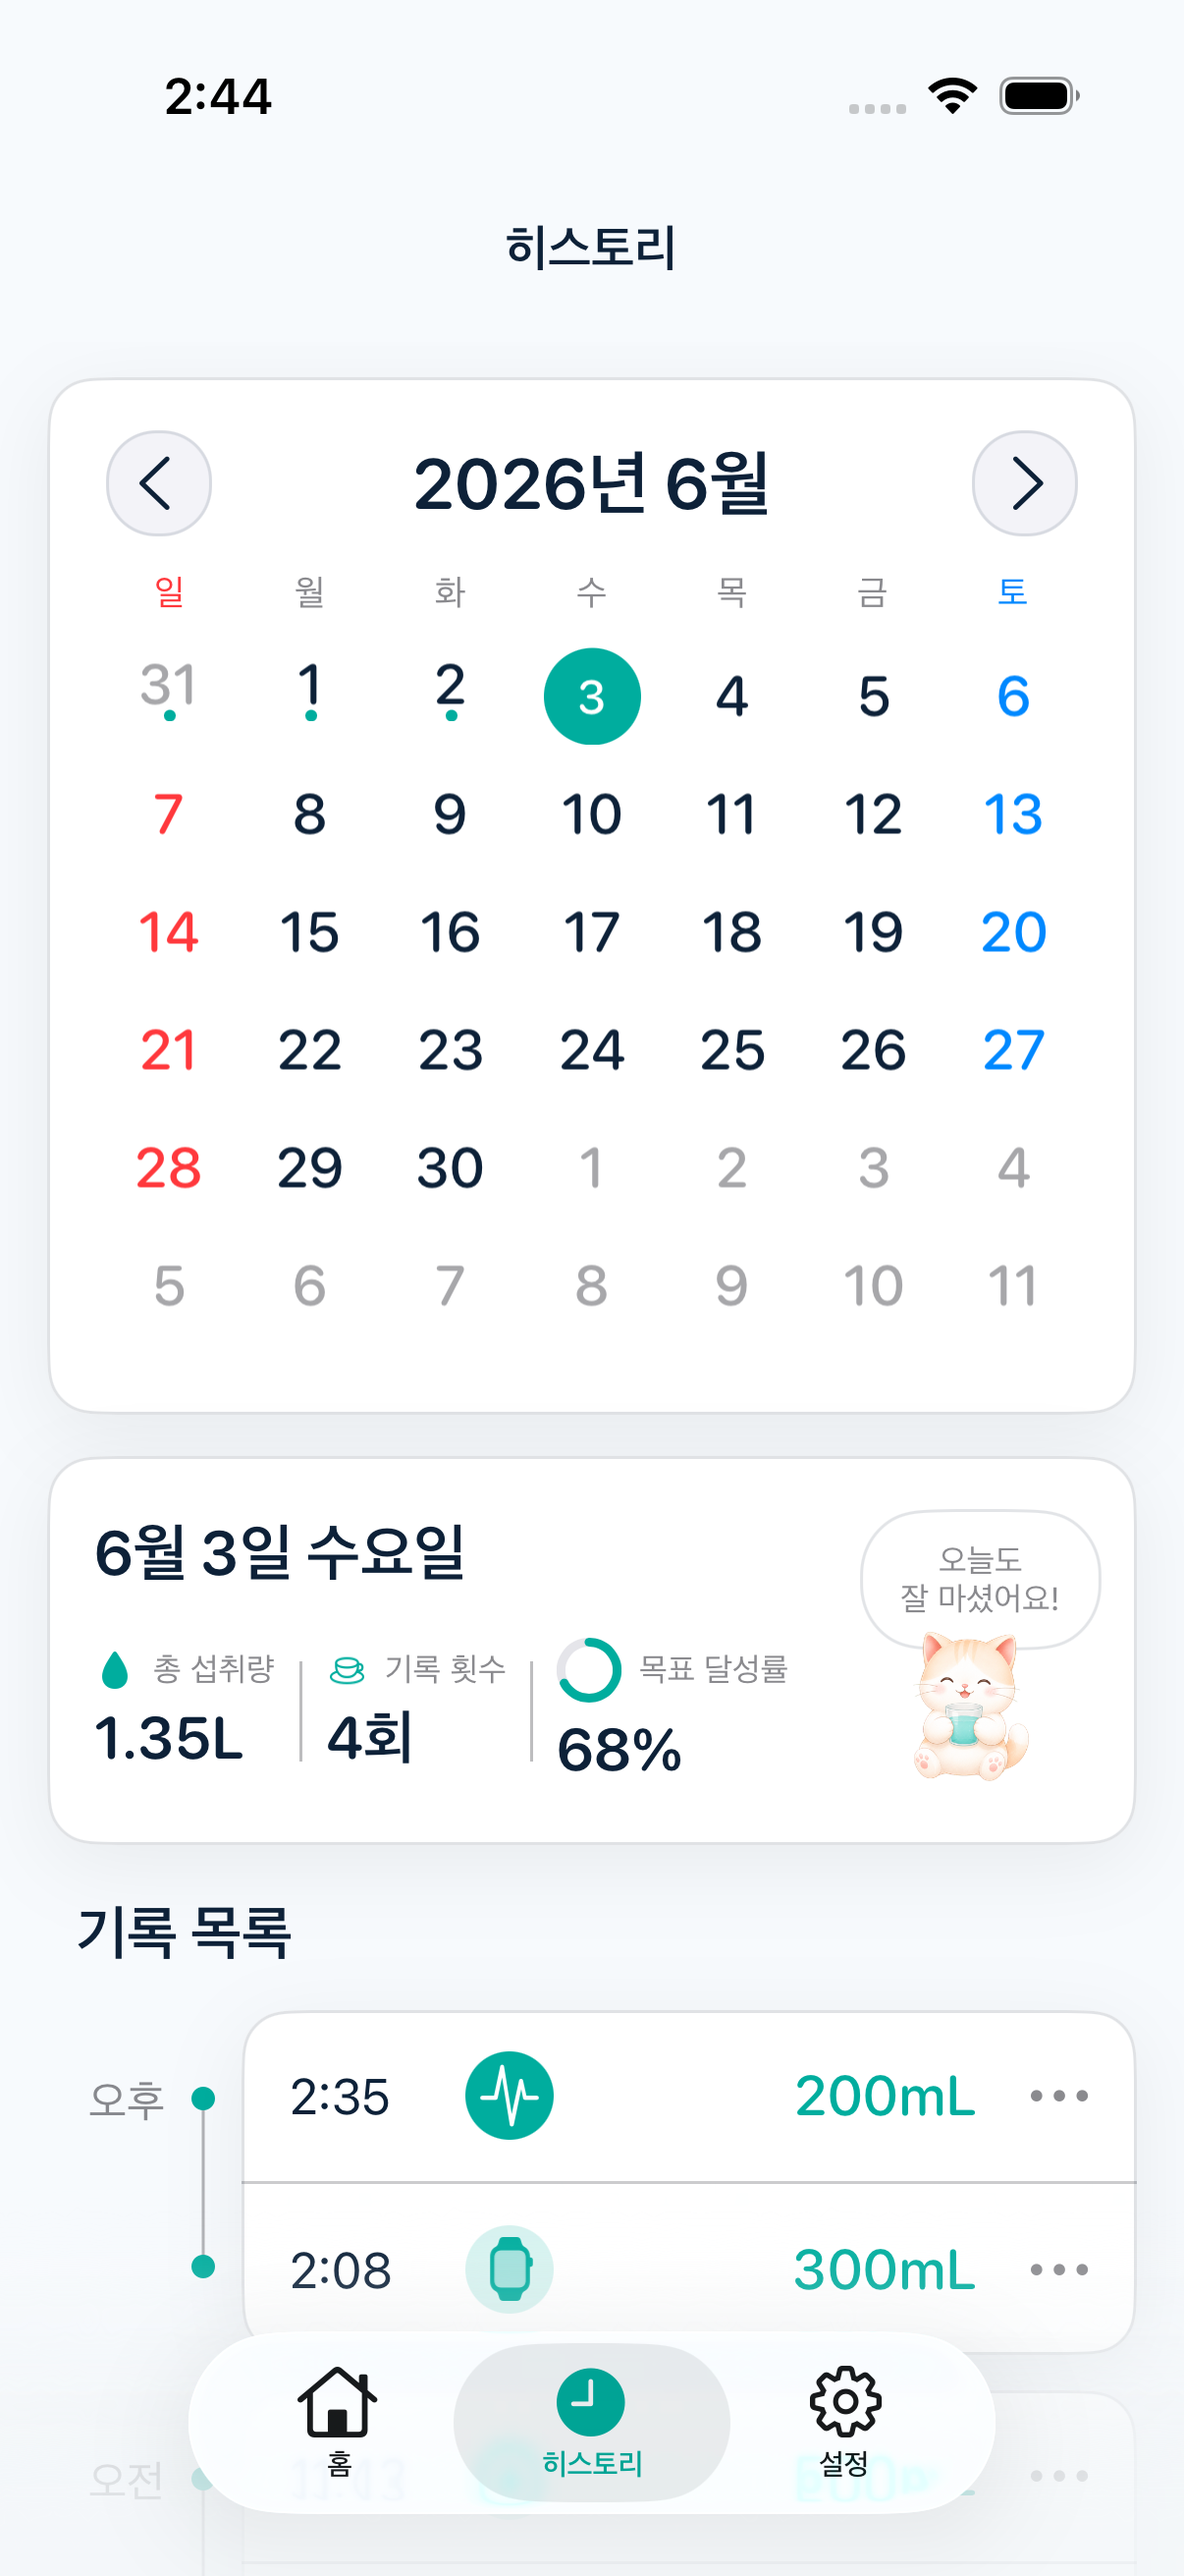
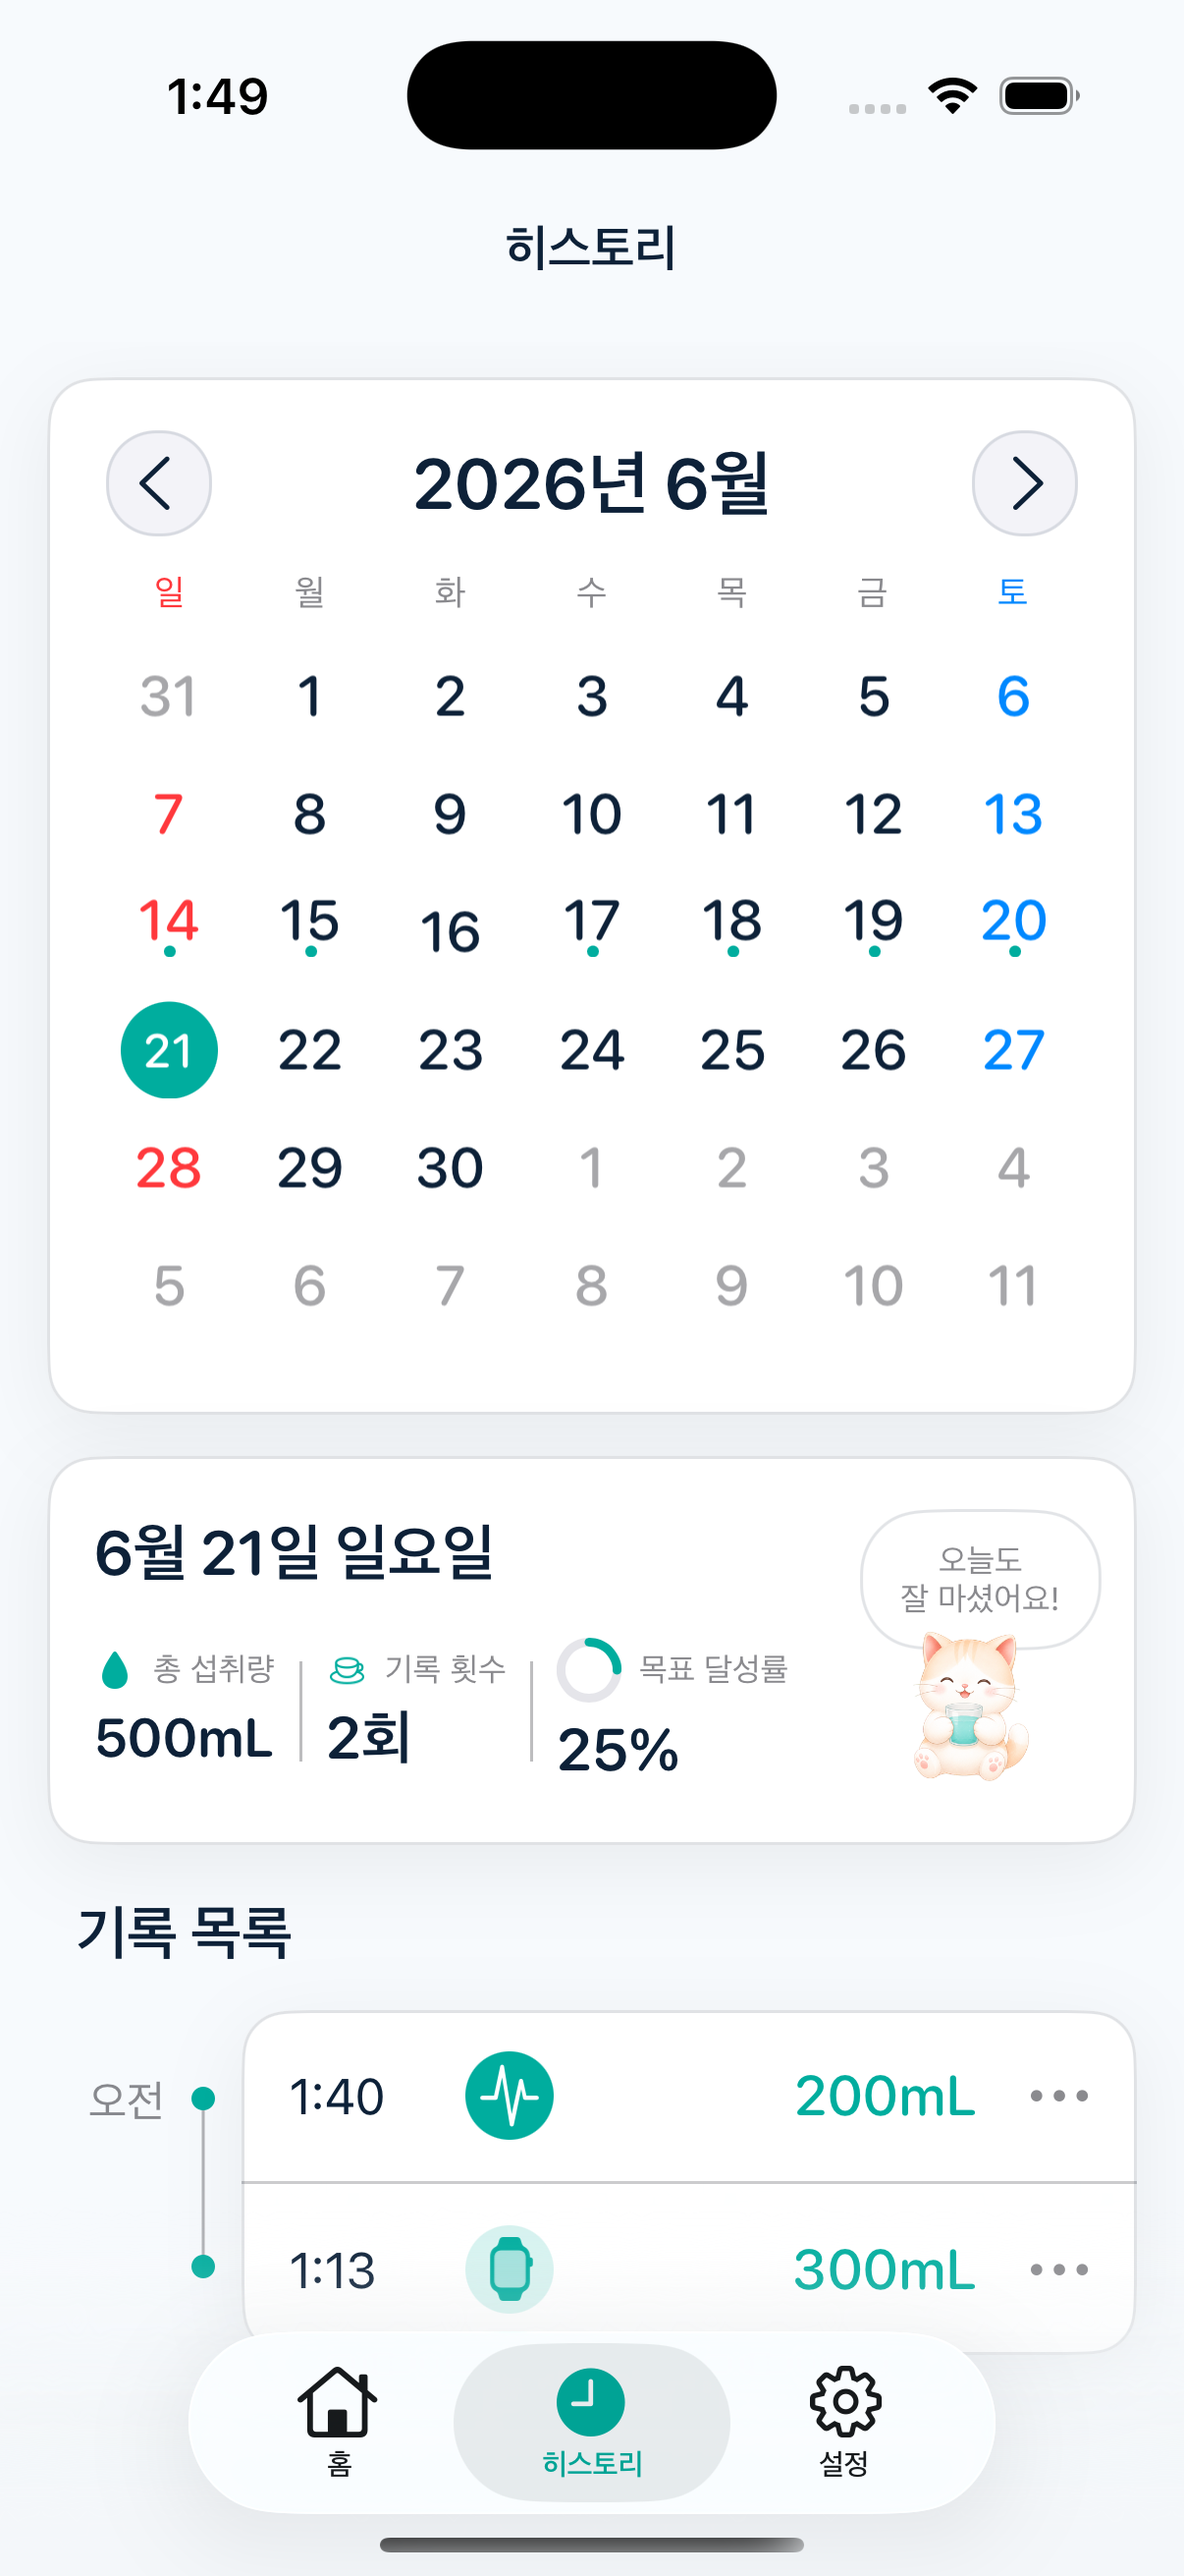
Update AquaTick landing screenshots

diff --git a/aquatick/ko/index.html b/aquatick/ko/index.html
@@ -40,7 +40,7 @@
         "name": "AquaTick | 고양이와 함께하는 수분 기록 앱",
         "description": "고양이와 함께 수분 습관을 시작하세요. 위젯, Live Activity, Dynamic Island, Apple Watch에서 바로 기록. 로그인 없이 목표·히스토리·연속 달성을 확인합니다.",
         "inLanguage": "ko-KR",
-        "dateModified": "2026-06-09",
+        "dateModified": "2026-06-21",
         "isPartOf": { "@id": "https://sparkish-xyz.github.io/aquatick/#website" },
         "about": { "@id": "https://sparkish-xyz.github.io/aquatick/#app" },
         "primaryImageOfPage": {
@@ -128,7 +128,7 @@
         <div class="hero-visual">
           <div class="iphone-frame">
             <img src="/aquatick/assets/screenshot-iphone-home.png" width="1206" height="2622" 
-                 alt="AquaTick iPhone 홈 — 고양이가 미소 지으며 1.35L를 달성한 화면, 수평 teal 진행 바와 남은 양 표시">
+                 alt="AquaTick iPhone 홈 — 고양이가 물을 기다리며 500mL를 기록한 화면, 수평 teal 진행 바와 남은 양 표시">
           </div>
           <div class="cat-sticker" data-active-text="고양이 진짜임 ㅋㅋ">진짜 고양이임</div>
         </div>
@@ -237,10 +237,10 @@
           <!-- Film 1: Home -->
           <div class="film-card">
             <img src="/aquatick/assets/screenshot-iphone-home.png" width="1206" height="2622" loading="lazy"
-                 alt="AquaTick iPhone 홈 화면 — 고양이와 함께 1.35L 달성, 수평 진행 바와 상세 상태">
+                 alt="AquaTick iPhone 홈 화면 — 고양이와 함께 500mL 기록, 수평 진행 바와 상세 상태">
             <div class="film-caption">
               <strong>순간 1</strong>
-              고양이가 미소 짓는 홈 카드. 1.35L 기록 후의 따뜻한 순간.
+              고양이가 물을 기다리는 홈 카드. 500mL 기록 후 남은 양을 보여주는 순간.
             </div>
           </div>
 

diff --git a/aquatick/ja/index.html b/aquatick/ja/index.html
@@ -40,7 +40,7 @@
         "name": "AquaTick | 猫と続ける水分記録アプリ",
         "description": "水分補給の猫と一緒に。ウィジェット、Live Activity、Dynamic Island、Apple Watchからワンタップで記録。アカウント不要。目標・履歴・連続達成を確認。",
         "inLanguage": "ja-JP",
-        "dateModified": "2026-06-09",
+        "dateModified": "2026-06-21",
         "isPartOf": { "@id": "https://sparkish-xyz.github.io/aquatick/#website" },
         "about": { "@id": "https://sparkish-xyz.github.io/aquatick/#app" },
         "primaryImageOfPage": {
@@ -128,7 +128,7 @@
         <div class="hero-visual">
           <div class="iphone-frame">
             <img src="/aquatick/assets/screenshot-iphone-home.png" width="1206" height="2622" 
-                 alt="AquaTick iPhoneホーム — 猫が笑顔で1.35L達成、水平ティール進行バーと残量表示">
+                 alt="AquaTick iPhoneホーム — 猫がカップを持って待ち、500mL記録、水平ティール進行バーと残量表示">
           </div>
           <div class="cat-sticker" data-active-text="本物の猫だよ 😂">本物の猫です</div>
         </div>
@@ -237,10 +237,10 @@
           <!-- Film 1: Home -->
           <div class="film-card">
             <img src="/aquatick/assets/screenshot-iphone-home.png" width="1206" height="2622" loading="lazy"
-                 alt="AquaTick iPhoneホーム — 猫と一緒に1.35L達成、水平プログレスバーと詳細ステータス">
+                 alt="AquaTick iPhoneホーム — 猫と一緒に500mL記録、水平プログレスバーと詳細ステータス">
             <div class="film-caption">
               <strong>瞬間 1</strong>
-              猫が微笑むホームカード。1.35L記録後の温かい瞬間。
+              猫がカップを持って待つホームカード。500mL記録後の温かい瞬間。
             </div>
           </div>
 

diff --git a/aquatick/en/index.html b/aquatick/en/index.html
@@ -40,7 +40,7 @@
         "name": "AquaTick | Cat hydration tracker app for iPhone and Apple Watch",
         "description": "Meet your hydration cat. Log water in one tap from widgets, Live Activity, Dynamic Island, and Apple Watch. No account. Goals, history, and streaks.",
         "inLanguage": "en-US",
-        "dateModified": "2026-06-09",
+        "dateModified": "2026-06-21",
         "isPartOf": { "@id": "https://sparkish-xyz.github.io/aquatick/#website" },
         "about": { "@id": "https://sparkish-xyz.github.io/aquatick/#app" },
         "primaryImageOfPage": {
@@ -128,7 +128,7 @@
         <div class="hero-visual">
           <div class="iphone-frame">
             <img src="/aquatick/assets/screenshot-iphone-home.png" width="1206" height="2622" 
-                 alt="AquaTick iPhone home — cat smiling after achieving 1.35L, horizontal teal progress bar and remaining amount">
+                 alt="AquaTick iPhone home — cat waiting with a cup after 500mL logged, horizontal teal progress bar and remaining amount">
           </div>
           <div class="cat-sticker" data-active-text="A real cat for real 😂">Real cat inside</div>
         </div>
@@ -237,10 +237,10 @@
           <!-- Film 1: Home -->
           <div class="film-card">
             <img src="/aquatick/assets/screenshot-iphone-home.png" width="1206" height="2622" loading="lazy"
-                 alt="AquaTick iPhone home — cat smiling with 1.35L achieved, horizontal progress bar and detailed status">
+                 alt="AquaTick iPhone home — cat waiting with 500mL logged, horizontal progress bar and detailed status">
             <div class="film-caption">
               <strong>Moment 1</strong>
-              The home card where the cat smiles. A warm moment after logging 1.35L.
+              The home card where the cat waits with a cup. A warm moment after logging 500mL.
             </div>
           </div>
 
